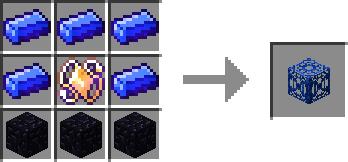
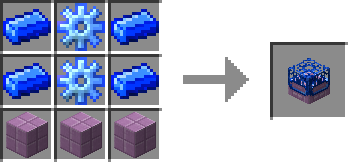
Update readme, misc changes
-  add magma cube essence
- prevent placing things like levers on enderlink
- allow disabling enderlink via redstone

diff --git a/src/main/java/yuudaari/soulus/common/block/enderlink/Enderlink.java b/src/main/java/yuudaari/soulus/common/block/enderlink/Enderlink.java
@@ -5,6 +5,7 @@ import net.minecraft.block.material.MapColor;
 import net.minecraft.block.properties.IProperty;
 import net.minecraft.block.properties.PropertyDirection;
 import net.minecraft.block.SoundType;
+import net.minecraft.block.state.BlockFaceShape;
 import net.minecraft.block.state.BlockStateContainer;
 import net.minecraft.block.state.IBlockState;
 import net.minecraft.client.resources.I18n;
@@ -17,6 +18,7 @@ import net.minecraft.item.ItemStack;
 import net.minecraft.util.math.BlockPos;
 import net.minecraft.util.EnumFacing;
 import net.minecraft.util.EnumHand;
+import net.minecraft.world.IBlockAccess;
 import net.minecraft.world.World;
 import net.minecraftforge.fml.relauncher.Side;
 import net.minecraftforge.fml.relauncher.SideOnly;
@@ -131,6 +133,11 @@ public class Enderlink extends UpgradeableBlock<EnderlinkTileEntity> {
 	@Override
 	public UpgradeableBlock<EnderlinkTileEntity> getInstance () {
 		return ModBlocks.ENDERLINK;
+	}
+
+	@Override
+	public BlockFaceShape getBlockFaceShape (IBlockAccess worldIn, IBlockState state, BlockPos pos, EnumFacing face) {
+		return BlockFaceShape.UNDEFINED;
 	}
 
 	/////////////////////////////////////////

diff --git a/src/main/java/yuudaari/soulus/common/block/enderlink/EnderlinkTileEntity.java b/src/main/java/yuudaari/soulus/common/block/enderlink/EnderlinkTileEntity.java
@@ -50,6 +50,8 @@ public class EnderlinkTileEntity extends UpgradeableBlockTileEntity implements I
 	}
 
 	public void teleportEntity (Entity entity) {
+		if (world.isBlockIndirectlyGettingPowered(pos) > 0) return;
+
 		EnumFacing facing = world.getBlockState(pos).getValue(Enderlink.FACING);
 		BlockPos teleportPos = pos.offset(facing);
 

diff --git a/src/main/java/yuudaari/soulus/common/config/essence/ConfigEssences.java b/src/main/java/yuudaari/soulus/common/config/essence/ConfigEssences.java
@@ -77,7 +77,8 @@ public class ConfigEssences {
 		// no bone type
 		essences.add(new ConfigEssence("minecraft:slime", null));
 		essences.add(new ConfigEssence("minecraft:villager_golem", null).setColor(0xD1CBC8, 0x6A914B));
-
+		essences.add(new ConfigEssence("minecraft:magma_cube", null));
+		
 		// @formatter:on
 	}
 

diff --git a/README.md b/README.md
@@ -24,11 +24,13 @@ See below for an in-depth list of features in the mod.
 - [Soulbook](#soulbook-)
 - [Endersteel](#endersteel-)
 - [Summoner](#summoner-)
+	- [Summoner Effects](#summoner-effects-)
 	- [Summoner Upgrades](#summoner-upgrades-)
 		- [Oscillating Gear](#oscillating-gear-)
 		- [Murky Orb](#murky-orb-)
 		- [Blood Crystal](#blood-crystal-)
 		- [Niobium Gear](#niobium-gear-)
+		- [Midnight Jewel](#midnight-jewel-)
 - [Skewer](#skewer-)
 	- [Skewer Upgrades](#skewer-upgrades-)
 - [Bone Drops](#bone-drops-)
@@ -40,7 +42,9 @@ See below for an in-depth list of features in the mod.
 	- [Composer Upgrades](#composer-upgrades-)
 - [Unloader](#unloader-)
 - [Endersteel Alchemy](#endersteel-alchemy-)
+- [Spawning Slimes, Magma Cubes, and Iron Golems](#spawning-slimes-magma-cubes-and-iron-golems-)
 - [Midnight Jewel](#midnight-jewel-)
+- [Enderlink](#enderlink-)
 - [Niobium](#niobium-)
 - [Soul Catalyst](#soul-catalyst-)
 - [Soul Totem](#soul-totem-)
@@ -69,6 +73,8 @@ See below for an in-depth list of features in the mod.
 ![Example Farm](./preview/example_farm.png)
 
 ![Example Autocrafter](./preview/example_composer.png)
+
+![Example Soul Totem](./preview/example_soul_totem.png)
 
 
 
@@ -155,8 +161,6 @@ Using 8 Endersteel bars and an ender bonemeal in the center, you can craft an Em
 
 ![Empty Summoner](./preview/summoner.png)
 
-You can also find Summoners in the world, in the places where mob spawners would normally generate. By default, they will have a "Midnight Jewel" inside of them, which allows them to spawn similarly to vanilla spawners. You can change all of this functionality, even per biome, structure, and creature, with [`world/summoner_replacement/replacement.json`](./docs/CONFIG.md#worldsummoner_replacementreplacementjson-).
-
 If you right click on an empty summoner with a filled soulbook, a summoner is created. By default, summoning a mob takes around 10 minutes, only summons one, and you have to be within 3 blocks to increase the summon percentage. (Eg: you can spend 5 minutes at the summoner, then come back later and complete the summon)
 
 Summoning entities does not obey natural spawn rules. You may summon entities anywhere you like, as long as they fit.
@@ -168,6 +172,28 @@ If a summoner is receiving a redstone signal it will not be active.
 Summoners support comparators, they will output a signal strength of 1 if they are at 0% summoned and 15 if they are at 100% summoned. If they're not active, they will output a signal strength of 0.
 
 By default, over time the Summoner will use up the Soulbook inside of it. The amount of essence in its Soulbook translates directly to the uses of the Summoner. Once the Soulbook is empty, the Summoner will stop functioning. Removing the Soulbook after this point, therefore, will return an empty Soulbook, of the current alignment. (Once a Soulbook has an alignment, it cannot be removed)
+
+You can also find Summoners in the world, in the places where mob spawners would normally generate. By default, they will have a "Midnight Jewel" inside of them, which allows them to spawn similarly to vanilla spawners. You can change all of this functionality, even per biome, structure, and creature, with [`world/summoner_replacement/replacement.json`](./docs/CONFIG.md#worldsummoner_replacementreplacementjson-).
+
+
+
+## Summoner Effeccts [🡅](#table-of-contents)
+
+You may notice that the Summoner spawns creatures with various status effects. The effects that the creatures may spawn with change depending on the "style" of Summoner. There are currently 7 styles, and they have different appearances and the following default effects:
+
+| Style | Effect (chance) |
+| --- | --- |
+| Normal | Water Breathing (0.1), Strength (0.1), Slowness (0.1), Invisibility (0.1), Weakness (0.1), Regeneration (0.1), Speed (0.1), Resistance (0.1) |
+| Spooky | Glowing (0.1), Invisibility (0.5), Wither (0.1) |
+| Earthy | Slowness (0.2), Resistance (0.5), Poison (0.1) |
+| Blazing | Fire Resistance (0.5), Regeneration (0.2), Weakness (0.1) |
+| Ender | Speed (0.1), Absorption (0.5), Strength (0.2) |
+| Sorrow | Slowness (0.2), Weakness (0.5), Resistance (0.1) |
+| Madness | Weakness (0.1), Wither (0.5), Poison (0.2) |
+
+Most effects have an upside and a downside. It may be worth considering which effect to use.
+
+By default, the effects only last five minutes. This is because when Creepers explode they leave a lingering potion of the same effect, for the same duration. If this functionality is ever disabled, the effect duration will be changed to "forever". See issue #38.
 
 
 
@@ -238,6 +264,13 @@ By default, a summoner can hold 16 Blood Crystals, ranging from 1 entity summone
 The Niobium Gear is a late-game upgrade for the Summoner which will reduce the Soulbook usage rate of a Summoner. By default, enough Niobium Gears will not prevent all Soulbook usage, only heavily reduce it.
 
 See [Niobium](#niobium-).
+
+
+### Midnight Jewel [🡅](#table-of-contents)
+
+The Midnight Jewel is a late-game upgrade for the Summoner which causes the Soulbook to last forever, and the Summon speed to be very fast, but the activation range and spawn quantity to be "middle-of-the-road". This is in order to emulate natural mob spawners. When the Midnight Jewel is inside the Summoner, no other upgrades may be inserted.
+
+The Midnight Jewel upgrade is most useful for quick summoners that don't need to be maximally upgraded.
 
 
 
@@ -393,6 +426,19 @@ If you believe another metal should be supported, make an issue for it. Note tha
 
 
 
+## Spawning Slimes, Magma Cubes, and Iron Golems [🡅](#table-of-contents)
+
+Slimes, Magma Cubes, and Iron Golems have essences, but as they do not have bones, they cannot be collected the normal way. However, you can synthesize their essence from their materials, in a Composer.
+
+![Slime Essence](./preview/essence_slime.png)  
+
+![Magma Cube Essence](./preview/essence_magma_cube.png)  
+
+![Iron Golem Essence](./preview/essence_iron_golem.png)
+
+
+
+
 ## Midnight Jewel [🡅](#table-of-contents)
 
 ![Midnight Jewel](./preview/midnight_jewel.png)
@@ -400,6 +446,34 @@ If you believe another metal should be supported, make an issue for it. Note tha
 The Midnight Jewel is created from a Blood Crystal surrounded by ash in a Composer. The recipe takes 256x as long as a normal recipe.
 
 Each held Midnight Jewel has a small chance every tick of dealing damage and inflicting negative status effects upon the holder. It will not end well to hold a stack or more of the Jewels.
+
+
+
+## Enderlink [🡅](#table-of-contents)
+
+![Enderlink](./preview/enderlink.png)
+
+The Enderlink is a block used for teleportation of creatures and items. It functions as the "anchor" of teleportation--eg: it is one-way, to the Enderlink.
+
+#### Setting up an Enderlink:
+
+Place Ender Dust on the ground where you want the items or creatures to be teleported from.
+
+![Ender Dust on the Ground](./preview/ender_dust_ground.png)
+
+By default, the Ender Dust is "aligned" to Light Blue. However, by right clicking with a dye, you can change the "alignment" of the dust.
+
+Next, place the Enderlink. It can be placed facing any direction, and will be placed facing towards you.
+
+![Enderlink in the World](./preview/enderlink_ground.png)
+
+By default, the Enderlink is *also* aligned to Light Blue. This means that the Ender Dust is linked to the Enderlink. You can test if it works by standing on the nearby Ender Dust. You will be teleported to the front of the Enderlink.
+
+By default, the Enderlink has a range of 16 blocks. Each Murky Orb extends its range by 1 block, up to  a total distance of 32 blocks. 
+
+The Enderlink can be disabled with a redstone signal.
+
+Note: As always, all numbers are configurable. However, the range of the Enderlink is limited by chunks. Teleportation is done based on entities which are colliding with Ender Dust, which requires looping through the tile entities in the chunks within range (25 chunks), in order to find a valid Enderlink. This chunk range is not configurable and will not be. Therefore, the maximum range shouldn't be expanded beyond 32. 
 
 
 
@@ -433,7 +507,7 @@ Soul Catalysts can be filled via crafting recipes or by putting them into a [Com
 
 ![Soul Totem](./preview/soul_totem.png)
 
-The Soul Totem is the main block of a multiblock structure. It is crafted with Niobium, a Soul Catalyst, and obsidian, and takes Soul Catalysts as fuel. When powered by a Soul Catalyst (inserted like an upgrade), the Soul Totem functions as a player surrogate for the Summoner, and a chunk loader, of the current chunk and the surrounding ring of chunks, for a total of 9 chunks.
+The Soul Totem is the main block of a multiblock structure. It is crafted with Niobium, Oscillating Gears, and Purpur blocks, and takes Soul Catalysts as fuel. When fueled by the Soul Catalysts (inserted like an upgrade), the Soul Totem functions as a player surrogate for the Summoner, and a chunk loader, of the current chunk and the surrounding ring of chunks, for a total of 9 chunks.
 
 Currently, the Soul Totem only has one upgrade, the Niobium Gear, which reduces the rate at which the Soul Catalyst fuel is consumed (to, by default, around a third of the normal rate).
 

diff --git a/docs/CONFIG.md b/docs/CONFIG.md
@@ -1,11 +1,20 @@
 [🡄 Return to Main Readme](../README.md)
 
 ## Table of Contents
+- [Config Syncing](#config-syncing-)
 - [Config Profiles](#config-profiles-)
 - [Creatures](#creaturescreaturesjson-)
 - [Essences](#essencesessencesjson-)
 - [Summoner Replacement](#worldsummoner_replacementreplacementjson-)
 - [Ore Veins (Fossils)](#worldveinsveinsjson-)
+
+
+
+## Config Syncing [🡅](#table-of-contents)
+
+Most config settings are server-side, but a few are exclusive to the client. In order to allow these client-side settings to exist and not require the server and client configs to be identical, the server-side configs are synced with each client upon connecting to the server. This synchronisation happens automatically. Using `/soulus reload` to reload the server-side configs will also resynchronise each client.
+
+Currently, only particle counts are client-side only (and some still use the server-side setting regardless). Fixing this is on the todo.
 
 
 
@@ -210,7 +219,7 @@ The default config (`#enabled`):
 {
 	"fortress": {
 		"*": {
-			"type": "blaze",
+			"type": "blazing",
 			"midnight_jewel": true
 		}
 	},
@@ -222,19 +231,19 @@ The default config (`#enabled`):
 	},
 	"mineshaft": {
 		"*": {
-			"type": "stone",
+			"type": "spooky",
 			"midnight_jewel": true
 		}
 	},
 	"stronghold": {
 		"*": {
-			"type": "end_stone",
+			"type": "ender",
 			"midnight_jewel": true
 		}
 	},
 	"mansion": {
 		"*": {
-			"type": "wood",
+			"type": "earthy",
 			"midnight_jewel": true
 		}
 	}
@@ -245,7 +254,7 @@ The first key is used for the structure the spawner is in, and the second key is
 
 As for structures, you can use the `/soulus location` command to get see the structures you're currently in. You can target all structures with `*`.
 
-The `type` you provide to the replacer can be any variant of the summoner. This example shows all 5 in use.
+The `type` you provide to the replacer can be any variant of the summoner. This example shows 5 in use, but there are also the styles `"sorrow"`, and `"madness"`.
 
 If the `midnight_jewel` property is set to true, the replaced spawners will be Summoners with a Soulbook and a Midnight Jewel inside. The Soulbook will match the mob which was being spawned from the spawner. The Midnight Jewel will not drop from a natural Summoner.
 
